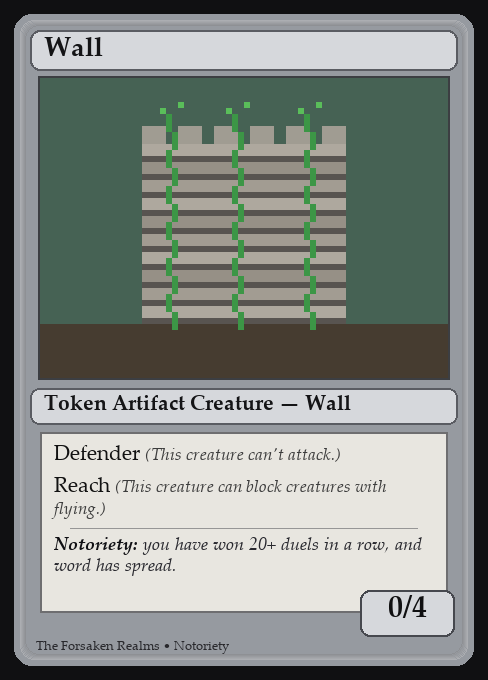
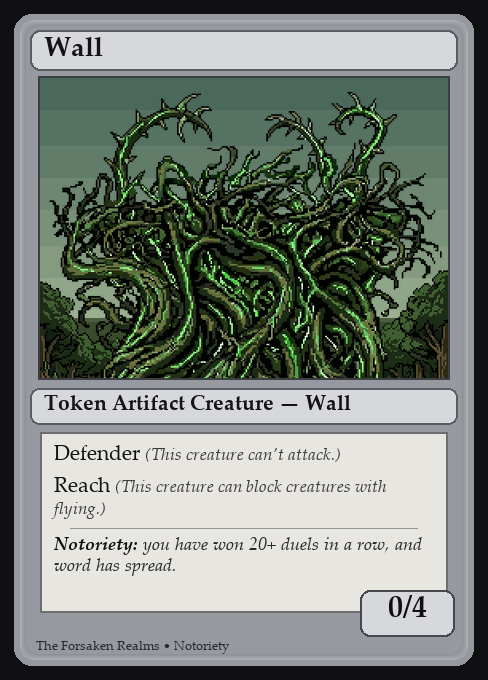
Round 423: the user's Wall token art on all 12 cards
make_wall_cards.py takes the user's file names (Regular/Reach/Fly-1..4, 256 x 256,
kept outside the repo at F:\Art_to_Tweak\WALL) and frames them for the 408 x 300
art box (frame_art): a backdrop per kind (stone-grey sky; green sky with a ground
band; open sky with pixel clouds), a scene covers the width and loses height from
its empty sky first with a margin over the towers, a cut-out is fitted whole -
standing on the ground line, or centered in the sky for Flying. Enlarging is
2x hard-edged then smoothed (hard-edged at 3x+). The 12 cards rebuilt.

Changed region(s): [[0.0615, 0.1235, 0.9221, 0.5559]]

diff --git a/dev-tools/wall_tokens/make_wall_cards.py b/dev-tools/wall_tokens/make_wall_cards.py
@@ -5,9 +5,18 @@ usage: python make_wall_cards.py --out <custom_card_pics folder> [--art <folder>
 --out   REQUIRED - where the <token script>.fullborder.png files go (forge-gui/res/adventure/common/custom_card_pics;
         ImageKeys finds a token's picture there since round 411).
 --art   the user's art. Per kind: normal.png, reach.png, flying.png - or per size: normal_1.png .. flying_4.png, which
-        win over the kind's single picture. Any size; landscape ~4:3 fits the art box best (408 x 300). Small pictures
-        (pixel art) are enlarged with hard edges, big ones smoothly. Missing art falls back to a drawn placeholder.
---sheet a 6 x 2 preview of all twelve, for review before shipping.
+        win over the kind's single picture. Round 423: the user's own names work too - Regular-1.png .. Regular-4.png,
+        Reach-1..4, Fly-1..4 (their 256 x 256 set lives OUTSIDE the repo, F:\\Art_to_Tweak\\WALL). Missing art falls back
+        to a drawn placeholder.
+--sheet a 4 x 3 preview of all twelve, for review before shipping.
+
+Round 423 framing (frame_art). The art box is 408 x 300 and the user's art is square with a transparent sky, so every
+picture stands on a backdrop for its kind: a banded stone-grey sky for the plain Wall, a green one with a ground band
+for Reach, open sky with pixel clouds for Flying. A picture whose content runs edge to edge (a scene) covers the width
+and loses the height it must from its own empty sky first, keeping a small margin over the tallest tower, then from the
+bottom. A cut-out (content clear of the edges) is fitted whole with a margin - standing on the ground line for the
+grounded kinds, centered in the sky for Flying. Enlarging is hard-edged at 3x and more; below that it is 2x hard-edged,
+then smoothed down to size, which keeps pixel edges crisp at an uneven scale.
 """
 import argparse
 import sys
@@ -17,6 +26,7 @@ from PIL import Image, ImageDraw, ImageFont
 W, H = 488, 680
 ART_BOX = (40, 78, 448, 378)          # 408 x 300
 KINDS = [("normal", "", []), ("reach", "reach", ["Reach"]), ("flying", "flying", ["Flying"])]
+USER_NAMES = {"normal": "Regular", "reach": "Reach", "flying": "Fly"}   # round 423: the user's art file names
 REMINDER = {
     "Defender": "(This creature can't attack.)",
     "Reach": "(This creature can block creatures with flying.)",
@@ -83,14 +93,68 @@ def placeholder(kind, toughness):
     return img
 
 
-def fit_art(img):
+SKY = {  # round 423 backdrops: top of the sky, horizon
+    "normal": ((92, 112, 146), (190, 198, 210)),
+    "reach": ((74, 104, 92), (168, 186, 150)),
+    "flying": ((96, 150, 214), (206, 228, 248)),
+}
+GROUND = {"normal": (86, 78, 62), "reach": (58, 76, 44), "flying": None}
+TOP_MARGIN = 14   # px kept over the tallest tower when a scene is cropped
+
+
+def backdrop(kind, bw, bh):
+    """A banded sky drawn at quarter size and enlarged hard-edged, a ground band for the grounded kinds, clouds for flying."""
+    w, h = bw // 4, bh // 4
+    img = Image.new("RGB", (w, h))
+    d = ImageDraw.Draw(img)
+    top, horizon = SKY[kind]
+    bands = 9
+    for i in range(bands):
+        t = i / (bands - 1)
+        d.rectangle([0, round(h * i / bands), w, round(h * (i + 1) / bands)],
+                    fill=tuple(round(top[k] + (horizon[k] - top[k]) * t) for k in range(3)))
+    if GROUND[kind]:
+        g = GROUND[kind]
+        gy = round(h * 0.80)
+        d.rectangle([0, gy, w, h], fill=g)
+        d.rectangle([0, gy, w, gy], fill=tuple(min(255, v + 18) for v in g))
+    else:
+        for cx, cy, r in ((14, 56, 9), (50, 62, 12), (88, 54, 10), (30, 18, 6), (78, 14, 7)):
+            d.ellipse([cx - r, cy - r // 2, cx + r, cy + r // 2], fill=(240, 244, 250))
+            d.ellipse([cx - r // 2, cy - r // 2 - 3, cx + r // 2, cy + r // 2 - 3], fill=(248, 250, 253))
+    return img.resize((bw, bh), Image.NEAREST)
+
+
+def enlarge(img, size):
+    """Hard-edged at 3x and more; below that 2x hard-edged then smoothed down - crisp pixel edges at an uneven scale."""
+    if size[0] >= img.width * 3:
+        return img.resize(size, Image.NEAREST)
+    if size[0] <= img.width:
+        return img.resize(size, Image.LANCZOS)
+    return img.resize((img.width * 2, img.height * 2), Image.NEAREST).resize(size, Image.LANCZOS)
+
+
+def frame_art(img, kind):
+    """Round 423: the picture on its kind's backdrop, framed for the 408 x 300 box (see the module docstring)."""
     bw, bh = ART_BOX[2] - ART_BOX[0], ART_BOX[3] - ART_BOX[1]
-    scale = max(bw / img.width, bh / img.height)
-    method = Image.NEAREST if img.width <= bw // 2 else Image.LANCZOS
-    big = img.convert("RGB").resize((max(bw, round(img.width * scale)), max(bh, round(img.height * scale))), method)
-    left = (big.width - bw) // 2
-    top = (big.height - bh) // 2
-    return big.crop((left, top, left + bw, top + bh))
+    img = img.convert("RGBA")
+    box = img.getchannel("A").point(lambda v: 255 if v > 24 else 0).getbbox() or (0, 0, img.width, img.height)
+    x0, y0, x1, y1 = box
+    canvas = backdrop(kind, bw, bh).convert("RGBA")
+    if x0 <= 2 and x1 >= img.width - 2:   # a scene: cover the width
+        s = bw / img.width
+        h = max(bh, round(img.height * s))
+        need = h - bh
+        top = max(0, min(round(y0 * s) - TOP_MARGIN, need))
+        canvas.alpha_composite(enlarge(img, (bw, h)).crop((0, top, bw, top + bh)))
+    else:                                  # a cut-out: fit it whole
+        cw, ch = x1 - x0, y1 - y0
+        s = min(bw * 0.92 / cw, bh * 0.90 / ch)
+        art = enlarge(img.crop(box), (max(1, round(cw * s)), max(1, round(ch * s))))
+        px = (bw - art.width) // 2
+        py = (bh - art.height) // 2 if kind == "flying" else min(bh - art.height, round(bh * 0.93) - art.height)
+        canvas.alpha_composite(art, (px, max(0, py)))
+    return canvas.convert("RGB")
 
 
 # ---------------------------------------------------------------- the frame
@@ -134,7 +198,7 @@ def draw_why(d, text, x0, y, width):
     return y + 21
 
 
-def card(art, keywords, toughness):
+def card(art, kind, keywords, toughness):
     img = Image.new("RGB", (W, H), (16, 16, 18))
     d = ImageDraw.Draw(img)
     # silver artifact frame
@@ -146,7 +210,7 @@ def card(art, keywords, toughness):
     d.rounded_rectangle([30, 30, W - 31, 70], radius=10, fill=(214, 216, 220), outline=(90, 92, 98), width=2)
     d.text((44, 36), "Wall", font=font("palab.ttf", 27), fill=(20, 20, 22))
     # art
-    img.paste(fit_art(art), ART_BOX[:2])
+    img.paste(frame_art(art, kind), ART_BOX[:2])
     d.rectangle([ART_BOX[0] - 2, ART_BOX[1] - 2, ART_BOX[2] + 1, ART_BOX[3] + 1], outline=(60, 62, 66), width=2)
     # type line
     d.rounded_rectangle([30, 388, W - 31, 424], radius=9, fill=(214, 216, 220), outline=(90, 92, 98), width=2)
@@ -193,14 +257,15 @@ def main():
         for t in range(1, 5):
             art, source = None, "placeholder"
             if art_dir:
-                for candidate in (art_dir / f"{kind}_{t}.png", art_dir / f"{kind}.png"):
+                user = USER_NAMES[kind]   # round 423: the user's own file names, e.g. Fly-3.png
+                for candidate in (art_dir / f"{user}-{t}.png", art_dir / f"{kind}_{t}.png", art_dir / f"{kind}.png"):
                     if candidate.exists():
                         art, source = Image.open(candidate), candidate.name
                         break
             if art is None:
                 art = placeholder(kind, t)
             script = f"tfr_wall_{word + '_' if word else ''}0_{t}"
-            face = card(art, keywords, t)
+            face = card(art, kind, keywords, t)
             face.save(out / f"{script}.fullborder.png")
             made.append(face)
             print(f"{script}.fullborder.png  <- {source}")
